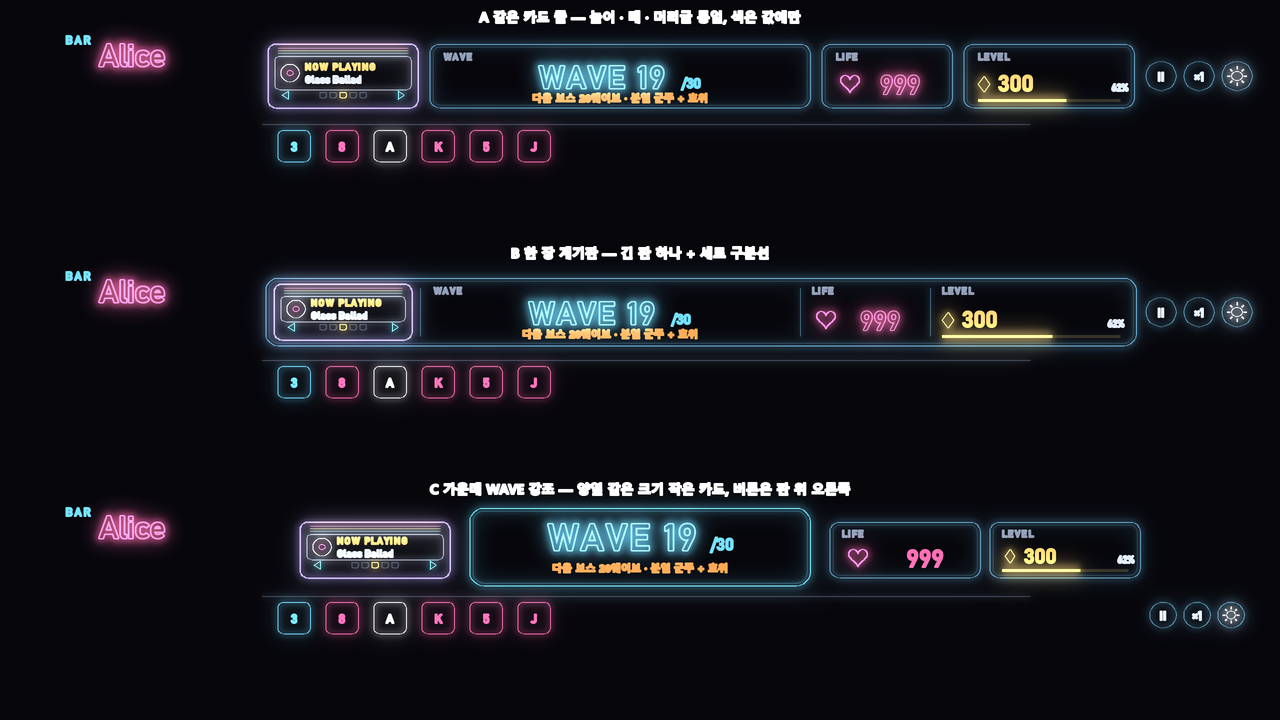
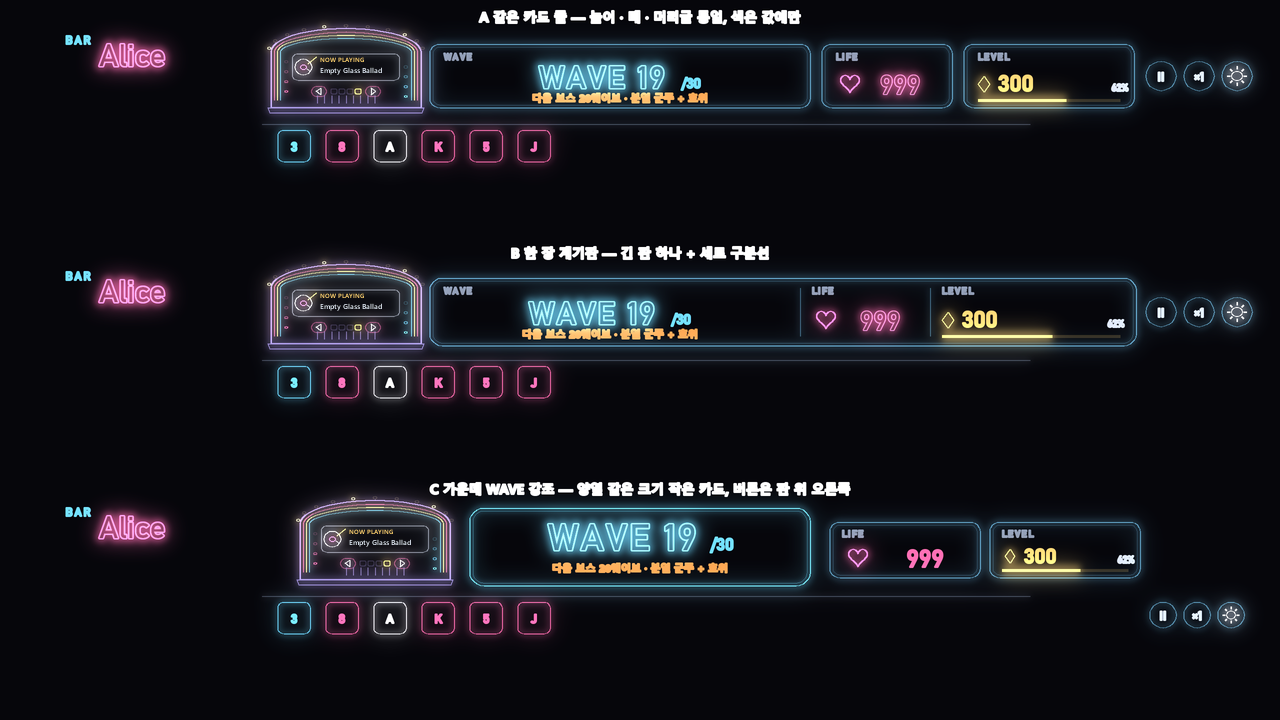
시안: 윗줄 A/B/C 에 아치 주크박스 2c (폭 150 · 높이 0.9)

Changed region(s): [[0.2188, 0.6722, 0.375, 0.825], [0.1875, 0.3361, 0.375, 0.4889], [0.1875, 0.0306, 0.3438, 0.1833]]

diff --git a/tools/neon/topbar_mock.py b/tools/neon/topbar_mock.py
@@ -68,6 +68,19 @@ def juke_square(M, x, y, w, h, small=False):
         M.rr(cx - 3, by - 3, 6, 6, 1.5, GOLD if k == 2 else DIM, 1.0, 0.9 if k == 2 else 0.5)
 
 
+TX = []  # 아치 주크박스 글자 (jukebox_mock 이 모은다)
+
+
+def juke_arch(M, cx, oy):
+    """아치 주크박스 2c (사용자 고름): 폭 150 · 높이 0.9배(85) · 위 끝 y 2 · 바닥 y 87"""
+    import jukebox_mock as J
+    J.KO = FONT_KO
+    k, w = 0.9, 150.0
+    J.JW = w / k
+    J.jukebox(M, TX, cx - w / 2, oy + 87 - J.JH * k, k, 0.3, 3, -10, 1)
+    J.JW = 128
+
+
 def wave_val(M, cx, y, big=34):
     t = M.word(cx - 18, y, 'WAVE 19', CYAN, big, font=FONT_EN, track=2)
     M.word(cx - 18 + t / 2 + 26, y, '/30', CYAN, big * 0.45, font=FONT_EN)
@@ -106,7 +119,7 @@ def variant_A(M, oy):
     """같은 카드 줄: 높이 64, y 18"""
     y, h = oy + 18, 64
     logo(M, oy)
-    juke_square(M, 268, y, 150, h)
+    juke_arch(M, 346, oy)
     card(M, 430, y, 380, h)
     label(M, 444, y + 16, 'WAVE')
     wave_val(M, 620, y + 44, 30)
@@ -129,11 +142,11 @@ def variant_B(M, oy):
     """한 장 계기판"""
     y, h = oy + 16, 68
     logo(M, oy)
-    card(M, 266, y, 870, h, FRAME, 0.6, 12)
-    xs = [420, 800, 930]
+    juke_arch(M, 346, oy)
+    card(M, 430, y, 706, h, FRAME, 0.6, 12)
+    xs = [800, 930]
     for xx in xs: M.ln([(xx, y + 10), (xx, y + h - 10)], FRAME, 1.0, 0.35)
-    juke_square(M, 274, y + 6, 138, h - 12, small=True)
-    label(M, 434, y + 16, 'WAVE')
+    label(M, 444, y + 16, 'WAVE')
     wave_val(M, 610, y + 46, 30)
     M.word(610, y + 60, '다음 보스 20웨이브 · 분열 군주 + 호위', ORANGE, 10, font=FONT_KO)
     label(M, 812, y + 16, 'LIFE')
@@ -152,7 +165,7 @@ def variant_C(M, oy):
     """가운데 WAVE 강조, 양옆 같은 크기 카드"""
     logo(M, oy)
     sy, sh = oy + 24, 56
-    juke_square(M, 300, sy, 150, sh, small=True)
+    juke_arch(M, 375, oy)
     card(M, 470, oy + 10, 340, 78, CYAN, 0.8, 14)
     wave_val(M, 640, oy + 52, 36)
     M.word(640, oy + 74, '다음 보스 20웨이브 · 분열 군주 + 호위', ORANGE, 10, font=FONT_KO)
@@ -180,7 +193,20 @@ def main(outdir):
         oy = 18 + k * 236
         M.word(1262, oy + 6, cap, WHITE, 12, font=FONT_KO, anchor_center=False) if False else M.word(640, oy + 4, cap, WHITE, 13, font=FONT_KO)
         fn(M, oy + 8)
-    M.draw().save(os.path.join(outdir, 'topbar_mock.png'))
+    from PIL import Image, ImageChops, ImageDraw, ImageFont
+    img = M.draw()
+    d = ImageDraw.Draw(img)
+    for t in TX:
+        (x, y, s, c, px_, a), clip = t[:6], (t[6] if len(t) > 6 else None)
+        f = ImageFont.truetype(FONT_KO, max(6, px_))
+        if clip is None:
+            d.text((x, y), s, fill=c, font=f, anchor=a)
+            continue
+        lay = Image.new('RGB', img.size, (0, 0, 0))
+        ImageDraw.Draw(lay).text((x, y), s, fill=c, font=f, anchor=a)
+        box = tuple(int(v) for v in clip)
+        img.paste(ImageChops.lighter(img.crop(box), lay.crop(box)), box[:2])
+    img.save(os.path.join(outdir, 'topbar_mock.png'))
     print('ok')
 
 
